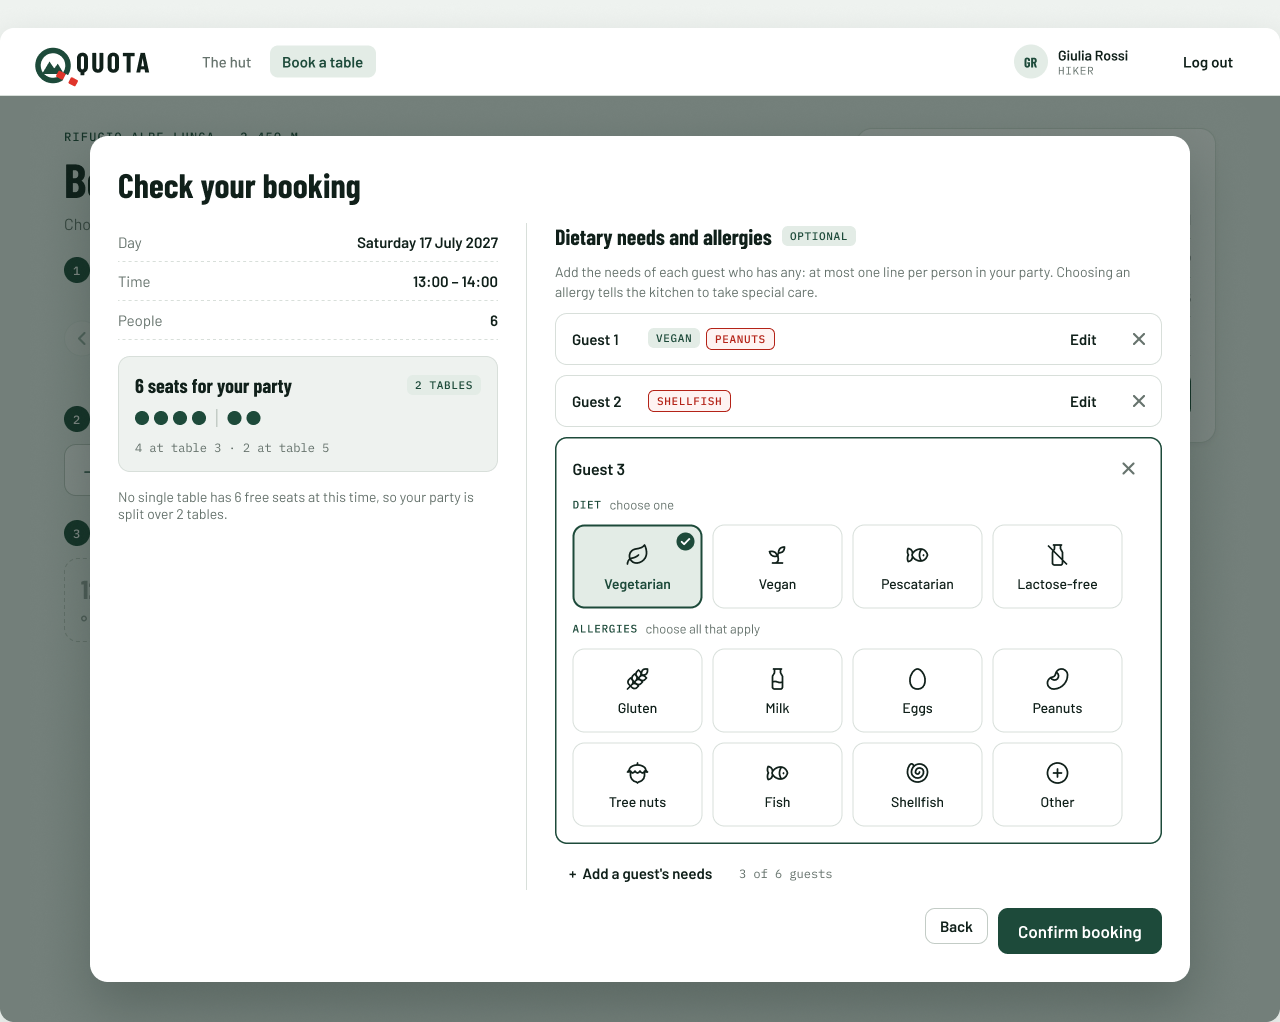
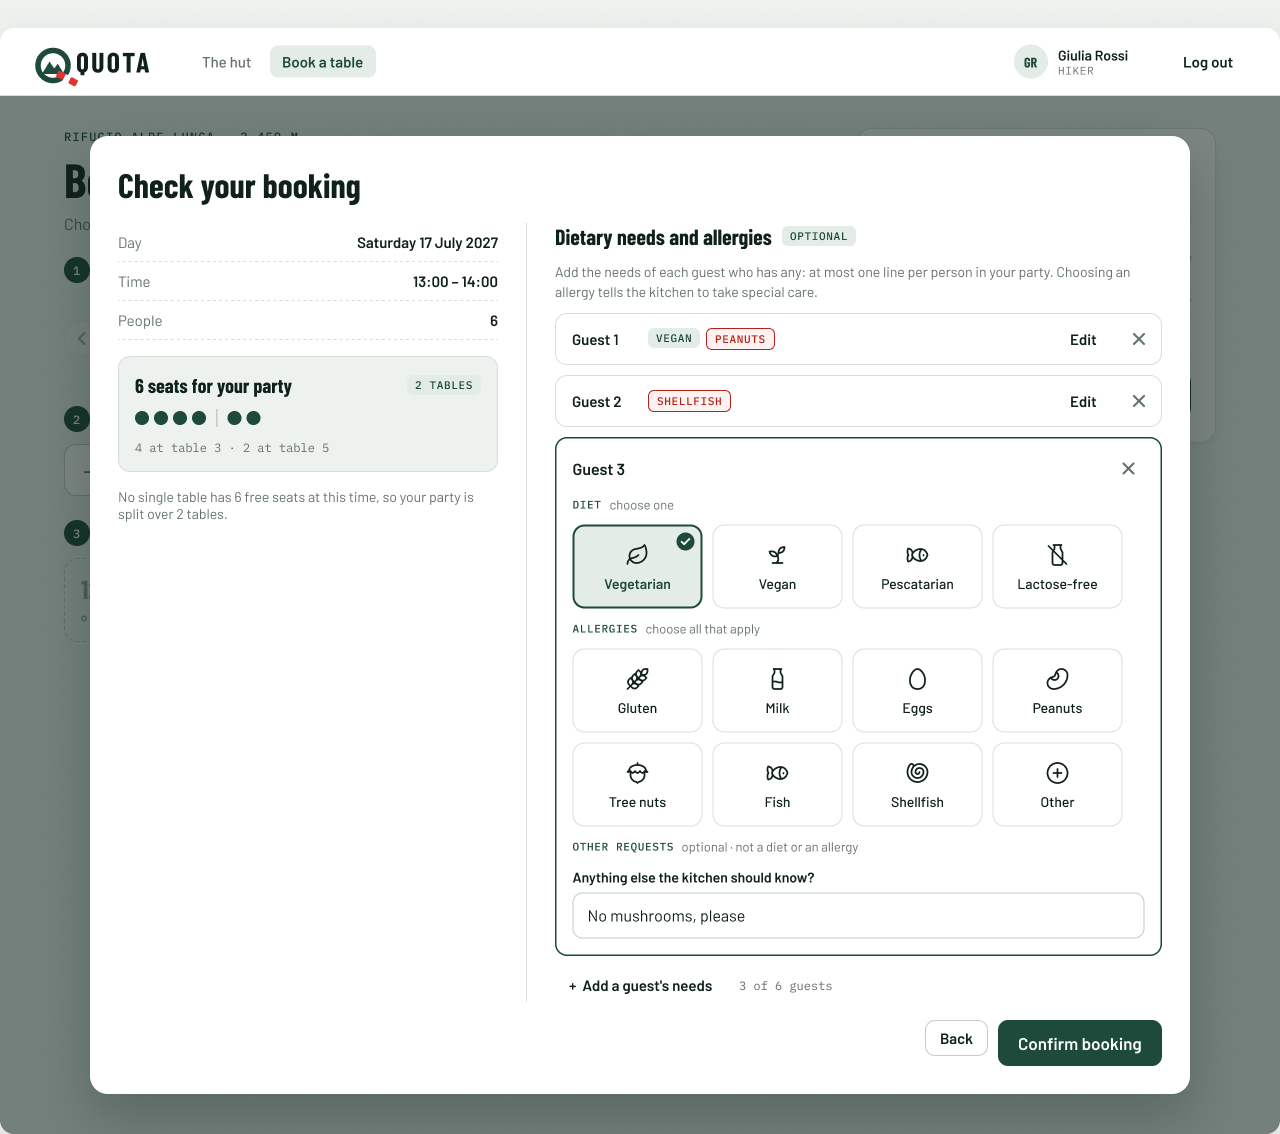
docs: add other requests and grouped needs to MH-05 mockup
Update the MH-05 mockup after the review: the guest editor gets a field
for other requests, and the confirmation groups guests with the same needs.

- Guest needs editor: new optional "Other requests" field for anything
  that is not a diet or an allergy (e.g. no spicy food, small portion).
- A guest line needs at least one card or a request.
- Table booked: needs shown as a grid of cards (3 per row, 2 on a
  phone). Guests with the same needs share one card with a people icon
  and xN; guests are no longer numbered. The request is shown in quotes.
- The grouping is only for display: lines are still saved one per guest.
- Re-export screens 02, 03, 05 and phone 01, 02; update the README
  (rules, flow, texts, data, open questions).

diff --git a/docs/mockups/dietary/README.md b/docs/mockups/dietary/README.md
@@ -16,6 +16,8 @@ Mockup for story **MH-05 Dietary needs and allergies**, used by the booking fron
 | Team choice | **One line per guest**, so a party of N people has at most N lines. Each line holds the needs of one person. |
 | Team choice | **Preset options instead of free text.** The needs are chosen with cards (icon in the middle, name centred below). *Diet*: one at most. *Allergies*: any number. *Other* opens a text field for an allergy that is not in the list. |
 | Team choice | The **allergy flag is set by the system**: a line is an allergy when at least one *Allergy* card is chosen. Allergy cards and chips are red, diets are green. |
+| Team choice | **Other requests**: each line also has an optional free text for anything that is not a diet or an allergy (e.g. no spicy food, a small portion, a high chair). |
+| Team choice | In the confirmation, **guests with the same needs are grouped** in one card with **×N** (how many guests). Guests are not numbered there. |
 | Team choice | The needs are asked at the end of the booking, in *Check your booking*, just before *Confirm booking*. They are optional: a party with no needs confirms as before. |
 
 ## The options
@@ -33,21 +35,21 @@ The first three steps of [Book a table](../booking/README.md#the-flow) (day, peo
 
 1. **Review booking** opens *Check your booking*. On a computer the dialog has two columns: on the left the summary of MH-01 (day, time, people, the tables chosen), on the right **Dietary needs and allergies**, marked *Optional*. On a phone the sheet scrolls and the needs come after the summary, right above *Confirm booking*.
 2. With no lines yet, the right column says "No dietary needs or allergies for this booking." and offers **+ Add a guest's needs**. Next to the button a counter shows the lines used out of the people in the party ("0 of 6 guests").
-3. **+ Add a guest's needs** opens the editor of a new guest (*Guest 1*, *Guest 2*…): the *Diet* cards and the *Allergies* cards. Tapping a card selects it (border, tinted background, check mark); tapping it again unselects it. Choosing another diet replaces the first one.
+3. **+ Add a guest's needs** opens the editor of a new guest (*Guest 1*, *Guest 2*…): the *Diet* cards, the *Allergies* cards and the *Other requests* field. Tapping a card selects it (border, tinted background, check mark); tapping it again unselects it. Choosing another diet replaces the first one.
 4. When another guest is added, the guest being edited folds into a row: its name, a chip per choice (green diet, red allergy), **Edit** to open it again and **×** to remove it. Only one guest is open at a time.
 5. When every person of the party has a line, **+ Add a guest's needs** is disabled and the counter says "every guest has a line". Removing a line frees it again. If the hiker goes **Back** and makes the party smaller than the number of lines, the extra lines must be removed before confirming.
-6. **Confirm booking** sends the booking and its lines in the same request (`POST /api/bookings`). The dialog stays open, with the problem marked, when a guest has no card chosen or *Other* is chosen with an empty field. **Back** keeps every choice, the lines too.
-7. **Table booked** lists the needs as saved, one row per guest with the same chips. With no needs the card is the same as in MH-01.
+6. **Confirm booking** sends the booking and its lines in the same request (`POST /api/bookings`). The dialog stays open, with the problem marked, when a guest has no card chosen and no request, or *Other* is chosen with an empty field. **Back** keeps every choice, the lines too.
+7. **Table booked** lists the needs as saved, in a grid of cards (3 per row, 2 on a phone). Guests with exactly the same needs (diet, allergies and request) share one card: a people icon with **×N**, the chips, and the request in quotes under them. With no needs the card is the same as in MH-01.
 
 ## Screens
 
 | # | Screen | Image |
 |---|---|---|
 | 1 | Check your booking, no dietary needs yet | ![Check your booking, no needs](01-check-no-needs.png) |
-| 2 | Choosing the needs of a guest (the PO example) | ![Choosing the needs of a guest](02-choosing-a-guest.png) |
+| 2 | Choosing the needs of a guest (the PO example), with an other request | ![Choosing the needs of a guest](02-choosing-a-guest.png) |
 | 3 | *Other* allergy without a name | ![Other allergy without a name](03-other-allergy-without-name.png) |
 | 4 | Party of 2: every guest has a line | ![Every guest has a line](04-every-guest-has-a-line.png) |
-| 5 | Table booked with dietary needs | ![Table booked with needs](05-table-booked-with-needs.png) |
+| 5 | Table booked with dietary needs, grouped with ×N | ![Table booked with needs](05-table-booked-with-needs.png) |
 
 Screens 2 and 3 are taller than 800 px to show the dialog in full. On a smaller window the dialog scrolls.
 
@@ -67,7 +69,7 @@ The same website in a phone browser, as in MH-01. The dialog becomes a sheet fro
 | *Icon / Food / …* | one per option | 24 px line icons: Vegetarian, Vegan, Pescatarian, Lactose-free, Gluten, Milk, Eggs, Peanuts, Tree nuts, Fish, Shellfish, Other. |
 | *Need card* | Kind = Diet / Allergy × State = Default / Selected | One option: icon in the middle, name centred below. Properties *Name* (text) and *Icon* (swap). Selected diet is green, selected allergy is red. |
 | *Need chip* | Kind = Diet / Allergy | Read-only chip of a chosen option, in the guest rows and in the confirmation. Property *Name*. |
-| *Guest needs editor* | Size = Desktop / Phone | The open editor of one guest: name, ×, the Diet cards, the Allergies cards and the *Other* field. Properties *Guest* (text) and *Show other field* (boolean). |
+| *Guest needs editor* | Size = Desktop / Phone | The open editor of one guest: name, ×, the Diet cards, the Allergies cards, the *Other* field and the *Other requests* field. Properties *Guest* (text) and *Show other field* (boolean). |
 
 ## Texts and server answers
 
@@ -76,13 +78,14 @@ The same website in a phone browser, as in MH-01. The dialog becomes a sheet fro
 | Section title | Dietary needs and allergies · OPTIONAL |
 | Help under the title | Add the needs of each guest who has any: at most one line per person in your party. Choosing an allergy tells the kitchen to take special care. |
 | No lines | No dietary needs or allergies for this booking. · **+ Add a guest's needs** · 0 of *N* guests |
-| Group labels | DIET · choose one / ALLERGIES · choose all that apply |
+| Group labels | DIET · choose one / ALLERGIES · choose all that apply / OTHER REQUESTS · optional · not a diet or an allergy |
+| Other requests field | "Anything else the kitchen should know?", placeholder "e.g. no spicy food, small portion, a high chair" |
 | Counter | *K* of *N* guests |
 | Every guest has a line | Button disabled, "*N* of *N* guests · every guest has a line" |
 | *Other* chosen | Field "Which allergy?", placeholder "e.g. sesame, celery, mustard" |
 | *Other* left empty, on Confirm | Under the field, in red: "Write which allergy, or unselect Other." Nothing is sent. |
-| A guest with no card, on Confirm | The guest is marked the same way. Nothing is sent. |
-| Server saved the booking (`201`) | Table booked, with a *Dietary needs* list: one row per guest, its chips. |
+| A guest with no card and no request, on Confirm | The guest is marked the same way. Nothing is sent. |
+| Server saved the booking (`201`) | Table booked, with *Dietary needs · K of N guests* and one card per group of guests with the same needs: ×*count*, the chips, the request in quotes. |
 | Invalid request (`400`, e.g. more lines than people) | Checked in the browser first, so it should not happen. If it does, the general message "Something went wrong on our side. Try again in a minute." |
 | Seats gone meanwhile (`409`) | As in MH-01 (screen 5). The lines are kept with the other choices. |
 
@@ -91,10 +94,11 @@ The same website in a phone browser, as in MH-01. The dialog becomes a sheet fro
 What the screens need from the API. The field names are for the backend task to decide:
 
 - a booking has a list of guest lines, possibly empty, with **at most as many lines as people** in the party;
-- each line has **at most one diet** from the fixed list, **any number of allergies** from the fixed list, and an **other allergy** text (required only when *Other* is chosen);
-- a line has at least one choice;
+- each line has **at most one diet** from the fixed list, **any number of allergies** from the fixed list, an **other allergy** text (required only when *Other* is chosen) and an optional **other requests** text;
+- a line has at least one choice or a request;
 - the **allergy flag** of a line is true when it has at least one allergy. It is derived, so the client does not send it;
-- the order of the lines is the order in which the hiker added them.
+- the order of the lines is the order in which the hiker added them;
+- the grouping with ×N in the confirmation is only how the lines are shown: the lines are saved one per guest.
 
 ## Left out on purpose
 
@@ -105,6 +109,6 @@ These belong to other stories and are added with them: how the hut staff read th
 Not asked to the product owner yet. The mockup does not depend on the answers, only the lists would change:
 
 - Which diets and allergies are in the preset lists. Today: 4 diets and 7 allergies plus *Other*.
-- Whether free notes are needed for diets as well (today only *Other* has text). The story notes speak of details "in a text field".
+- The maximum length of the *Other requests* text.
 
 Sample data (hut, names, dates, tables, needs) is invented for the mockup.
